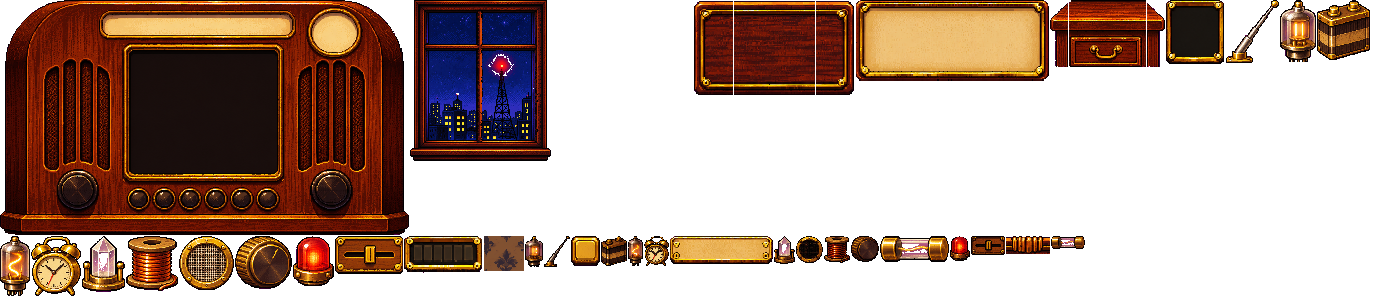
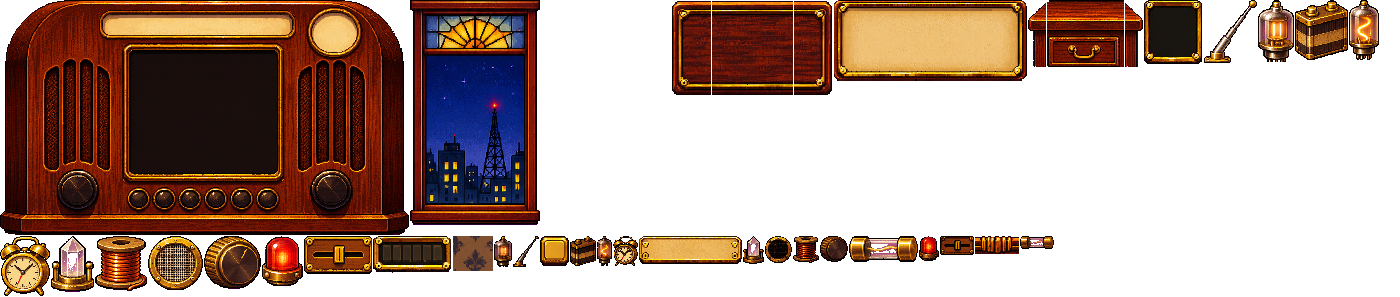
Tall stained-glass window with rain on its panes and glowing lights; rain is the room's sound, no constant static
Claude-Session: https://claude.ai/code/session_01GgKVUEWXsHRvrCRcmJ6uSs

Changed region(s): [[0.4607, 0.0, 1.0, 0.3333], [0.0, 0.7879, 0.7986, 1.0], [0.2764, 0.0, 0.3993, 0.7576]]

diff --git a/index.html b/index.html
@@ -298,7 +298,7 @@ function layout() {
 function computeLayout() {
   const rw = R("radio")[2], wide = W >= 650;
   L.radioX = wide ? W - rw - 21 : W - rw - 5; L.radioY = 18;
-  L.winX = wide ? Math.max(18, Math.round((L.radioX - R("window")[2]) / 2)) : L.radioX - R("window")[2] + 10; L.winY = 46;
+  L.winX = wide ? Math.max(18, Math.round((L.radioX - R("window")[2]) / 2)) : L.radioX - R("window")[2] + 10; L.winY = 22;   // the tall window (225 high) sits higher
   const bp = P("window").beacon; L.beacon = { x: L.winX + bp[0], y: L.winY + bp[1] };
   const rp = P("radio");
   L.glass = { x: L.radioX + rp.glass0[0], y: L.radioY + rp.glass0[1], w: rp.glass1[0] - rp.glass0[0], h: rp.glass1[1] - rp.glass0[1] };
@@ -561,7 +561,7 @@ function draw() {
   wctx.save(); wctx.translate(sx, 0); drawBeacon(); drawRadioLive(); drawGrid(); drawSparks(); wctx.restore();
   wctx.drawImage(barCv, 0, L.barY); drawBarLive();
   ctx.drawImage(world, 0, 0, W * FINE, H * FINE);
-  ctx.save(); ctx.translate(sx * FINE, 0); drawDial(); drawMeter(); drawLamps(); drawKeyLetters(); drawGlows(); drawFlyers(); ctx.restore();
+  ctx.save(); ctx.translate(sx * FINE, 0); drawRain(); drawDial(); drawMeter(); drawLamps(); drawKeyLetters(); drawGlows(); drawFlyers(); ctx.restore();
   drawBarText(); if (nightCard > 0 && S.phase === "play") { drawNightCard(); nightCard--; }
   if (S.phase === "title" || S.phase === "shop" || S.phase === "swap" || S.phase === "over") {
     octx.clearRect(0, 0, W, H); octx.imageSmoothingEnabled = false;
@@ -649,6 +649,27 @@ function candidate() {
   if (S.path.length && !adjacent(S.path[S.path.length - 1], i)) return -1; return i;
 }
 function ftextDot(s, x, y, col) { for (const ch of s.toUpperCase()) { if (ch !== " ") { ctx.drawImage(glyphCv("dot", ch, C.dotDim), x - 1, y); ctx.drawImage(glyphCv("dot", ch, C.dotDim), x + 1, y); ctx.drawImage(glyphCv("dot", ch, col), x, y); } x += 18; } }
+/* rain on the window: streaks falling past outside (a slight slant, faint blue-white) and drops on the glass that slide down in fits
+   and starts, catching a little light. Drawn on the fine layer, clipped to the panes (never over the wooden frame and bars). */
+let rainS = null, rainD = null;
+function drawRain() {
+  const panes = (P("window_panes") || []).map(([x0, y0, x1, y1]) => [FX(L.winX + x0), FX(L.winY + y0), FX(x1 - x0), FX(y1 - y0)]); if (!panes.length) return;
+  const [bx, by, bw, bh] = panes[panes.length - 1], top = panes[0][1], H2 = by + bh - top;
+  if (!rainS) { rainS = []; for (let i = 0; i < 70; i++) rainS.push({ x: Math.random(), y: Math.random(), v: .018 + Math.random() * .014, l: 8 + Math.random() * 14, a: .12 + Math.random() * .2 });
+    rainD = []; for (let i = 0; i < 9; i++) rainD.push({ x: Math.random(), y: Math.random(), r: 1.5 + Math.random() * 2.2, v: 0, hold: Math.random() * 200 }); }
+  const rx = FX(L.radioX + 8);   // on narrow screens the radio covers part of the window: no rain on the radio
+  ctx.save(); ctx.beginPath(); panes.forEach(([x, y, w, hh]) => ctx.rect(x, y, Math.max(0, Math.min(w, rx - x)), hh)); ctx.clip();
+  ctx.lineWidth = 1.5; ctx.lineCap = "round";
+  for (const s of rainS) { s.y += s.v; s.x += s.v * .22; if (s.y > 1.05) { s.y = -.05; s.x = Math.random() * 1.1 - .1; } if (s.x > 1.05) s.x -= 1.1;
+    const x = bx + s.x * bw, y = top + s.y * H2; ctx.strokeStyle = `rgba(180,200,240,${s.a})`; ctx.beginPath(); ctx.moveTo(x, y); ctx.lineTo(x - s.l * .22, y - s.l); ctx.stroke(); }
+  for (const d of rainD) { if (d.hold > 0) d.hold--; else { d.v = Math.min(.012, d.v + .0006); d.y += d.v; if (Math.random() < .02) { d.hold = 20 + Math.random() * 120; d.v = 0; } }
+    if (d.y > 1.02) { d.y = -.02; d.x = Math.random(); d.r = 1.5 + Math.random() * 2.2; d.hold = Math.random() * 120; }
+    const x = bx + d.x * bw, y = top + d.y * H2;
+    ctx.fillStyle = "rgba(160,180,230,.10)"; ctx.fillRect(x - d.r * .4, y - 26, d.r * .8, 26);   // its wet trail
+    ctx.fillStyle = "rgba(190,205,245,.32)"; ctx.beginPath(); ctx.arc(x, y, d.r, 0, 6.283); ctx.fill();
+    ctx.fillStyle = "rgba(255,255,255,.55)"; ctx.fillRect(x - d.r * .45, y - d.r * .5, 1.5, 1.5); }
+  ctx.restore();
+}
 function drawLamp(x, y, r, low) {   // a lit dome lamp centred at (x, y) fine pixels: hot middle, amber body, darker rim, a glint up-left
   const g = ctx.createRadialGradient(x - r * .25, y - r * .25, r * .1, x, y, r); g.addColorStop(0, low ? "#ffd0b8" : "#fffbe0"); g.addColorStop(.45, low ? "#ff5a3c" : "#ffd65a"); g.addColorStop(1, low ? "#a0201a" : "#c88a1e");
   ctx.fillStyle = g; ctx.beginPath(); ctx.arc(x, y, r, 0, 6.283); ctx.fill(); ctx.fillStyle = "rgba(255,255,245,.9)"; ctx.beginPath(); ctx.arc(x - r * .38, y - r * .38, r * .2, 0, 6.283); ctx.fill(); }
@@ -1008,6 +1029,8 @@ function drawGlows() {
   const prog = S.phase === "play" ? Math.min(1, S.shown / S.target) : .5;   // the tower burns brighter as the night's signal fills
   bloom(FX(b.x), FX(b.y), 46 + prog * 60 + beaconFlash * 2, "255,60,40", (.25 + .55 * prog) * pulse + beaconFlash / 50);
   bloom(FX(b.x), FX(b.y), 20, "255,200,170", .5 + beaconFlash / 40);
+  for (const [x, y, n, kind] of P("window_lights") || []) { if (kind !== "warm") continue; const big = n > 40;
+    bloom(FX(L.winX + x), FX(L.winY + y), big ? FX(22) : 10 + Math.sqrt(n) * 3, "255,190,90", big ? .18 : Math.min(.35, .08 + n * .02)); }
   bloom(FX(W - 20), FX(SCENE_H - 30), FX(220), "255,150,60", .16 + .03 * Math.sin(frame / 50));     // the unseen lamp, breathing
   const lit = S.phase === "title" ? titleFX.lamps : Math.min(6, S.words);
   L.lamps.forEach((p, k) => { if (k < lit) bloom(FX(p.x), FX(p.y), 34, S.words === 1 && S.phase === "play" ? "255,70,50" : "255,190,90", .5); });
@@ -1441,7 +1464,7 @@ function move(dx, dy) { dismissCard();
   const x = S.cursor % 4 + dx, y = ((S.cursor / 4) | 0) + dy; S.cursor = ((y + 4) % 4) * 4 + ((x + 4) % 4); knobA.L += .35 * (dx + dy); Sound.tickMove();
 }
 function titleBusy() { if (S.phase === "title" && !titleSkip && titleT < TITLE_LEN[TS]) { titleSkip = true; return true; } return false; }
-function start() { Sound.ensure(); Sound.music(); newRun(); staticKick = .6; Sound.retune(); }
+function start() { Sound.ensure(); Sound.music(); newRun(); }
 function pressA() { Sound.ensure(); usingButtons = true; dismissCard(); if (titleBusy()) return; if (S.phase === "title" || S.phase === "over") return start(); if (S.phase === "swap") return swapConfirm(swapFocus); if (S.phase === "shop") return choosePart(shopFocus); tapTile(S.cursor); }
 function pressB() { if (S.phase === "swap") return swapCancel(); if (S.phase === "play") back(); }
 function pressStart() { Sound.ensure(); if (titleBusy()) return; if (S.phase === "title" || S.phase === "over") return start(); if (S.phase === "swap") return swapConfirm(swapFocus); if (S.phase === "shop") return choosePart(shopFocus); retune(); }
@@ -1511,7 +1534,7 @@ window.addEventListener("resize", layout); if (window.ResizeObserver) new Resize
 
 /* ================= sound: Web Audio synth, 84 BPM night pulse ================= */
 const Sound = (() => {
-  let ac = null, master, mus, sfx, nb, stat, padF, playing = false, nextBeat = 0, beatN = 0, muted = false, lastTick = 0, lastType = 0, lastCell = 0;
+  let ac = null, master, mus, sfx, nb, stat, padF, playing = false, nextBeat = 0, beatN = 0, muted = false, lastTick = 0, lastType = 0, lastCell = 0, rainOn = false;
   const m2f = (m) => 440 * Math.pow(2, (m - 69) / 12), CH = [[57, 60, 64, 67], [53, 57, 60, 64], [48, 55, 59, 64], [55, 59, 62, 64]], RT = [45, 41, 36, 43], PENT = [69, 72, 74, 76, 79, 81, 84, 86, 88, 91, 93, 96, 98];
   // iPhone: the silent switch mutes web audio. Inside the press that starts the sound, say the page plays media (iOS 17+) and loop
   // a second of real silence in an audio element, so iOS treats the page like a music player and plays it (the studio's other games
@@ -1542,11 +1565,18 @@ const Sound = (() => {
         g.gain.setValueAtTime(.0001, t); g.gain.exponentialRampToValueAtTime(.032, t + 1.2); g.gain.setValueAtTime(.032, t + beat * 7); g.gain.exponentialRampToValueAtTime(.0001, t + beat * 8.4); o.connect(g); g.connect(padF); o.start(t); o.stop(t + beat * 8.5); }));
       nextBeat += beat; beatN++; }
     if (S && S.target) padF.frequency.setTargetAtTime(600 + Math.min(1, S.score / S.target) * 1800, ac.currentTime, .4); }
+  // rain on the window: a soft wash of filtered noise, a fine hiss on top, and now and then a drip on the sill
+  function startRain() { const t = ac.currentTime;
+    const mk = (type, f, q, g) => { const s = ac.createBufferSource(); s.buffer = nb; s.loop = true; s.playbackRate.value = .5 + Math.random() * .1; const fl = ac.createBiquadFilter(); fl.type = type; fl.frequency.value = f; fl.Q.value = q; const gg = ac.createGain(); gg.gain.setValueAtTime(.0001, t); gg.gain.exponentialRampToValueAtTime(g, t + 3); s.connect(fl); fl.connect(gg); gg.connect(master); s.start(t); return gg; };
+    const wash = mk("lowpass", 1100, .5, .07), hiss = mk("bandpass", 6500, .4, .018);
+    const lfo = ac.createOscillator(), lg = ac.createGain(); lfo.frequency.value = .07; lg.gain.value = .02; lfo.connect(lg); lg.connect(wash.gain); lfo.start();
+    setInterval(() => { if (!ac || Math.random() < .4) return; const t2 = ac.currentTime + Math.random() * .8, f = 1400 + Math.random() * 1600; osc("sine", f, t2, .002, .012 + Math.random() * .015, .06, sfx, f * .55); }, 700); }
   const chordNow = () => CH[(((beatN / 4) | 0) / 2 | 0) % 4];
   return { ensure, ac: () => ac, out: () => master, muted: () => muted,
-    music() { if (!ac || playing) return; playing = true; nextBeat = ac.currentTime + .1; setInterval(schedule, 60); },
+    music() { if (!ac) return; this.rain(); if (playing) return; playing = true; nextBeat = ac.currentTime + .1; setInterval(schedule, 60); },
     toggle() { muted = !muted; if (master) master.gain.setTargetAtTime(muted ? 0 : .8, ac.currentTime, .05); log(muted ? "Sound off." : "Sound on."); },
-    setStatic(l) { if (stat) stat.gain.setTargetAtTime(Math.min(.1, l * .3), ac.currentTime, .1); },
+    setStatic(l) {},   // (the constant static hiss is gone, Chris 2026-11-12: static is only a sound effect now; the rain is the room's sound)
+    rain() { if (!ac || rainOn) return; rainOn = true; startRain(); },
     blip(n) { if (!ac) return; const t = ac.currentTime, f = m2f(PENT[Math.min(PENT.length - 1, n - 1)]); osc("square", f, t, .003, .07, .1); osc("triangle", f / 2, t, .003, .1, .12); },
     lock() { if (!ac) return; const t = ac.currentTime; osc("square", m2f(93), t, .003, .05, .08); osc("square", m2f(100), t + .05, .003, .05, .12); },
     tickMove() { if (!ac) return; osc("square", 1600, ac.currentTime, .001, .03, .02); },

diff --git a/art/pixel/build.py b/art/pixel/build.py
@@ -19,7 +19,9 @@ SRC = "art/pixel/src/"
 OUT = "art/pixel/"
 SQUARE = {"uikit": 3.197}     # sources whose fixed rows need evening out: real pixel size in source px (both axes)
 SPRITES = {
-    "window": {"src": "window", "points": {"beacon": (648, 574)}},
+    # the window (2026-11-12, Chris picked design 7 of 9: tall, stained glass across the top). Its source had no recoverable grid, so
+    # window7_fixed.png is a k-centroid downscale (art/pixel/kdown.py) to 141x233: same width as before, taller.
+    "window": {"src": "window7", "points": {"beacon": (174.5, 210.5)}},
     "radio": {"src": "radio", "points": {
         "glass0": (552, 214), "glass1": (1102, 688), "dial0": (462, 84), "dial1": (1148, 150), "meter": (1312, 146), "meterR": (1392, 146),
         "lamp0": (583, 783), "lamp1": (678, 783), "lamp2": (773, 783), "lamp3": (868, 783), "lamp4": (963, 783), "lamp5": (1062, 783),
@@ -39,6 +41,9 @@ SPRITES = {
     "slot": {"src": "uikit", "crop": (1320, 554, 1508, 760)},
     "button": {"src": "uikit", "crop": (1540, 610, 1634, 704)},
 }
+# the window's panes, measured on window7_fixed.png (x0, y0, x1, y1): the stained glass strip and the tall pane under the transom
+WIN_PANES = [(22, 22, 120, 55), (22, 61, 120, 210)]
+WIN_BOX = [0, 0]
 WALL = {"src": "wallpaper.png", "period": (156, 138), "px": 3.9, "area": (150, 160)}
 ICON_NAMES = ["amp", "battery", "vowel", "filter", "coil", "echo", "owl", "knob", "treble", "short", "carrier", "fuse"]
 
@@ -64,6 +69,12 @@ def main():
             x0, y0, x1, y1 = s["crop"]; box = (round(x0 * fx), round(y0 * fy), round(x1 * fx), round(y1 * fy))
         else:
             box = im.getbbox()
+        if name == "window":
+            from scipy import ndimage
+            src_im = Image.open(SRC + "window7_fixed.png").convert("RGB"); arr = np.asarray(src_im).astype(int)
+            mag = magenta(arr); lab, _ = ndimage.label(mag); edge = set(np.unique(np.concatenate([lab[0], lab[-1], lab[:, 0], lab[:, -1]]))) - {0}
+            keep = ~np.isin(lab, list(edge)); im = Image.fromarray(np.dstack([arr.astype(np.uint8), keep.astype(np.uint8) * 255]), "RGBA"); box = im.getbbox()
+            WIN_BOX[:] = [box[0], box[1]]
         piece = im.crop(box)
         if "crop" not in s: x0, y0 = box[0] / fx, box[1] / fy
         imgs[name] = piece
@@ -76,11 +87,27 @@ def main():
     imgs["wall_tile"] = Image.fromarray(pix.mode_shrink(tile, np.ones(tile.shape[:2], bool), round(PX / WALL["px"]), round(PY / WALL["px"]), big), "RGBA")
     # the window glass: which window pixels are the night view (they give their own light, so room light skips them)
     win = np.asarray(imgs["window"]).astype(int); rgb = win[..., :3]
-    seen = ((rgb[..., 2] > rgb[..., 0] + 10) | (rgb.max(-1) > 200)) & (win[..., 3] > 0); seen[:8] = seen[-14:] = False
-    ys, xs = np.where(seen); inside = np.zeros_like(seen); inside[ys.min():ys.max() + 1, xs.min():xs.max() + 1] = True
-    wood = (rgb[..., 0] > rgb[..., 2] + 25) & (rgb[..., 0] > 60) & (rgb[..., 1] > rgb[..., 0] * .3) & ~(rgb.max(-1) > 200)
-    glass = inside & ~wood & (win[..., 3] > 0)
+    # the glass is every pane inside the frame: the area the blue night covers, minus whole rows/columns that are wood (the transom bar);
+    # lit windows, the stained glass and the beacon inside it count as glass too (they light themselves)
+    glass = np.zeros(rgb.shape[:2], bool); ox, oy = WIN_BOX[0], WIN_BOX[1]
+    for x0, y0, x1, y1 in WIN_PANES: glass[y0 - oy:y1 - oy, x0 - ox:x1 - ox] = True
     imgs["window_glass"] = Image.fromarray(np.dstack([np.full(glass.shape + (3,), 255, np.uint8), glass.astype(np.uint8) * 255]), "RGBA")
+    # what in the window gives off light (for the glow pass): lit building windows, the stained glass sun, the beacon. Kept as a
+    # list of light spots (centre, size, colour) the game blooms, plus the night sky area (where the rain falls) as a box.
+    from scipy import ndimage
+    hsv_hot = (rgb[..., 0] > 170) & (rgb[..., 1] > 120) & (rgb[..., 2] < 140) & glass        # warm yellow / amber
+    red = (rgb[..., 0] > 190) & (rgb[..., 1] < 90) & (rgb[..., 2] < 90) & glass                # the beacon
+    lights = []
+    for m, kind in ((hsv_hot, "warm"), (red, "red")):
+        lab, n = ndimage.label(m, np.ones((3, 3)))
+        for i, sl in enumerate(ndimage.find_objects(lab)):
+            ys, xs = np.where(lab[sl] == i + 1)
+            if len(ys) < 2: continue
+            lights.append([round(float(xs.mean()) + sl[1].start, 1), round(float(ys.mean()) + sl[0].start, 1), int(len(ys)), kind])
+    gy, gx = np.where(glass & (rgb[..., 2] > rgb[..., 0]))
+    pts["window_lights"] = lights
+    pts["window_panes"] = [[x0 - ox, y0 - oy, x1 - ox, y1 - oy] for x0, y0, x1, y1 in WIN_PANES]
+    pts["window_sky"] = [int(gx.min()), int(gy.min()), int(gx.max()) + 1, int(gy.max()) + 1]
     # part icons: full size for the part picker, exactly half (2x2 cells, majority colour) for the bar's slots
     ic, fx, fy = fixed("icons"); ia = np.asarray(ic); al = ia[..., 3] > 0; H, W = al.shape
     for k, name in enumerate(ICON_NAMES):

diff --git a/art/pixel/kdown.py b/art/pixel/kdown.py
@@ -1,0 +1,19 @@
+"""k-centroid downscale: each target pixel takes the main colour of the source pixels it covers (the biggest of two clusters), so
+edges stay sharp and colours stay true instead of blurring. Used when a picture's fake pixels can't be recovered exactly.
+python3 -I art/pixel/kdown.py SRC OUT WIDTH HEIGHT"""
+import sys
+import numpy as np
+from PIL import Image
+src, out, W, H = sys.argv[1], sys.argv[2], int(sys.argv[3]), int(sys.argv[4])
+a = np.asarray(Image.open(src).convert("RGB")).astype(float); sh, sw = a.shape[:2]
+o = np.zeros((H, W, 3))
+for y in range(H):
+    for x in range(W):
+        c = a[int(y * sh / H):max(int(y * sh / H) + 1, int((y + 1) * sh / H)), int(x * sw / W):max(int(x * sw / W) + 1, int((x + 1) * sw / W))].reshape(-1, 3)
+        m = c[[0, -1]].copy()
+        for _ in range(4):
+            d = ((c[:, None] - m[None]) ** 2).sum(-1); l = d.argmin(1)
+            for k in range(2):
+                if (l == k).any(): m[k] = c[l == k].mean(0)
+        k = np.bincount(l, minlength=2).argmax(); o[y, x] = m[k]
+Image.fromarray(np.clip(o.round(), 0, 255).astype(np.uint8)).save(out)

diff --git a/.claude/skills/lexicon-signal-dev/SKILL.md b/.claude/skills/lexicon-signal-dev/SKILL.md
@@ -59,6 +59,15 @@ the same batch.
   bar is away; it rises into place with a thud when a run starts (`barShow` moves `L.barY`).
 - Lit lamps are drawn on the fine layer (`drawLamp`) at the socket's true middle (`L.lamps`: half a pixel right of the marked
   point, the fifth one more), radius 7 world px, so they sit dead centre (2026-11-12, Chris saw them off-centre).
+- The window (2026-11-12): Chris picked design 7 of 9 (stained glass sun across the top, tall pane below), 141 wide x 233 tall.
+  Its ChatGPT source had no recoverable pixel grid (fix_pixel_art standard found nonsense, neural redrew it), so it was shrunk with
+  our own k-centroid downscale (`art/pixel/kdown.py`): each pixel takes the main colour of what it covers, sharp and true. Use
+  that when fix_pixel_art can't find the grid. build.py marks the panes (WIN_PANES, the glass: emissive, rain falls there), the
+  light spots (window_lights: lit building windows, the stained glass; the game blooms them) and keeps the beacon's pink halo by
+  keying only magenta that touches the picture's edge.
+- Rain (drawRain): faint slanted streaks and drops sliding down the panes in fits and starts, clipped to the panes and kept off
+  the radio on narrow screens. The room's sound is rain (a soft filtered-noise wash, fine hiss, the odd drip); there is no constant
+  static hiss any more (static is only a sound effect, e.g. retune).
 - Bar contents always sit inside the bar's inner gold border, centred on one line with one equal gap.
 - Part icons (2026-11-12, Chris found the old ones not good enough): build.py cuts each icon as the biggest blob in its sheet cell
   (no neighbour bits or specks). Slots draw the full icon on the fine layer at one art pixel per fine pixel (full detail, no shrink),
